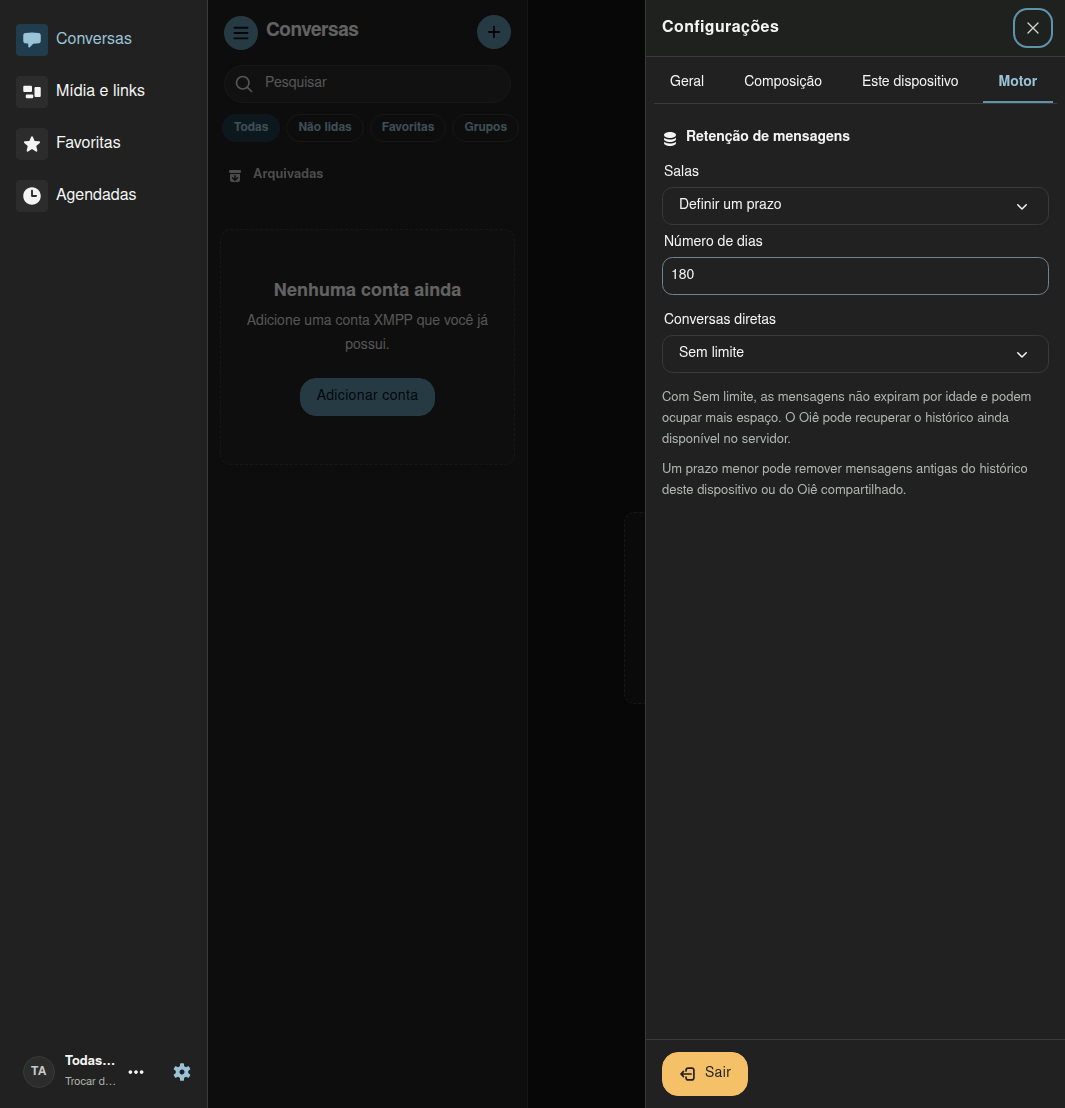
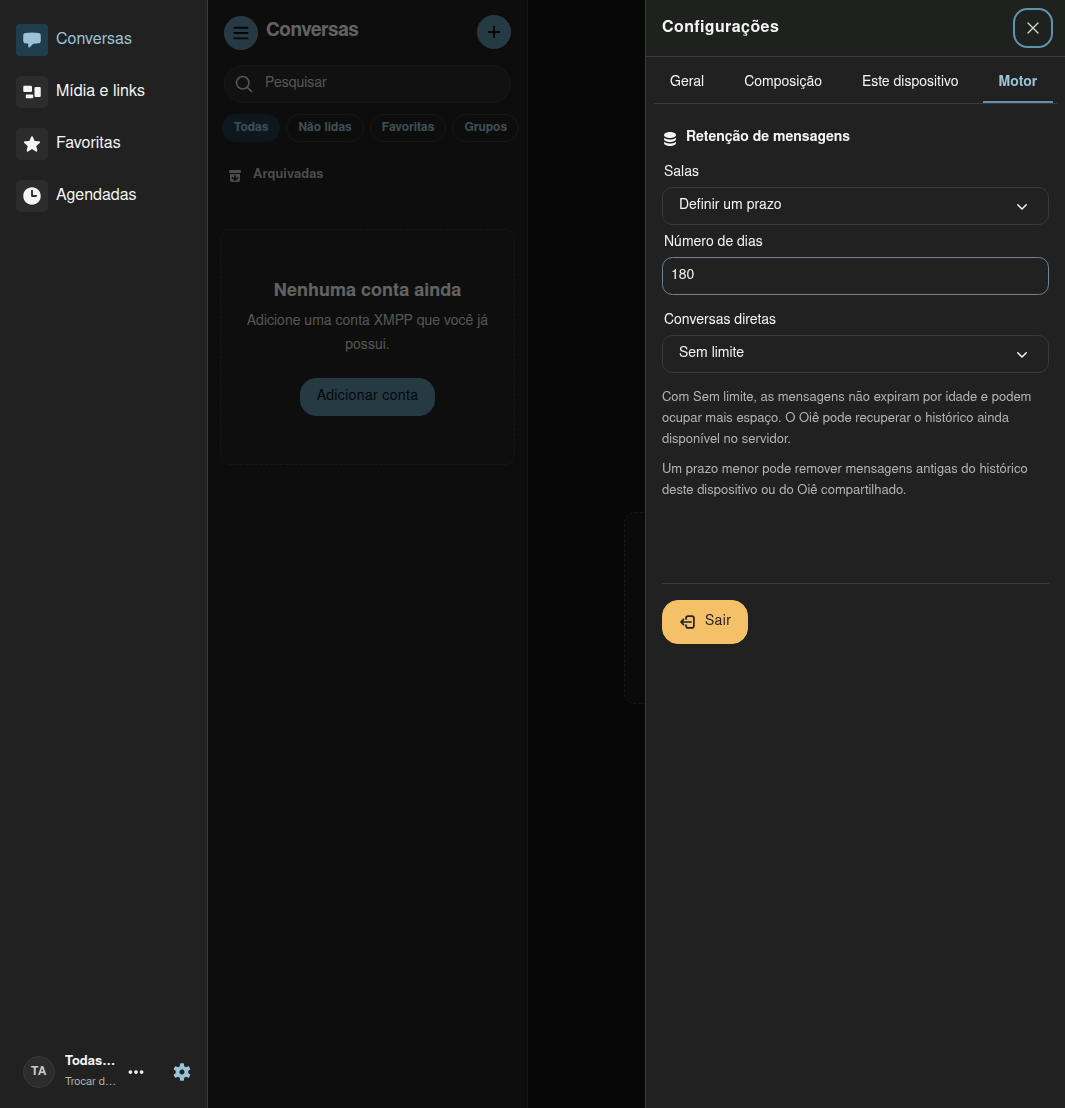
Documentar a confirmação para sair do Oiê hospedado

Changed region(s): [[0.6197, 0.9513, 0.7127, 1.0], [0.6197, 0.5217, 0.7127, 0.583]]

diff --git a/content/docs/manual/index.md b/content/docs/manual/index.md
@@ -44,6 +44,13 @@ autenticação, o desktop mostra **Entrar pelo navegador** e **Inserir chave de
 acesso**. Use a primeira opção para entrar no servidor e criar a chave e a
 segunda para colá-la no desktop.
 
+### Sair do Oiê hospedado
+
+Na versão em desenvolvimento, abra **Configurações → Motor**, selecione **Sair**
+e confirme. Isso encerra a sessão em todas as abas deste navegador. O motor
+continua rodando no servidor. Na rc.28 oferecida em **Baixar**, **Sair** fica
+no rodapé das configurações.
+
 ## Diagnóstico e registro de erros
 
 Na rc.28 oferecida em **Baixar**, abra **Configurações → Diagnóstico**.
